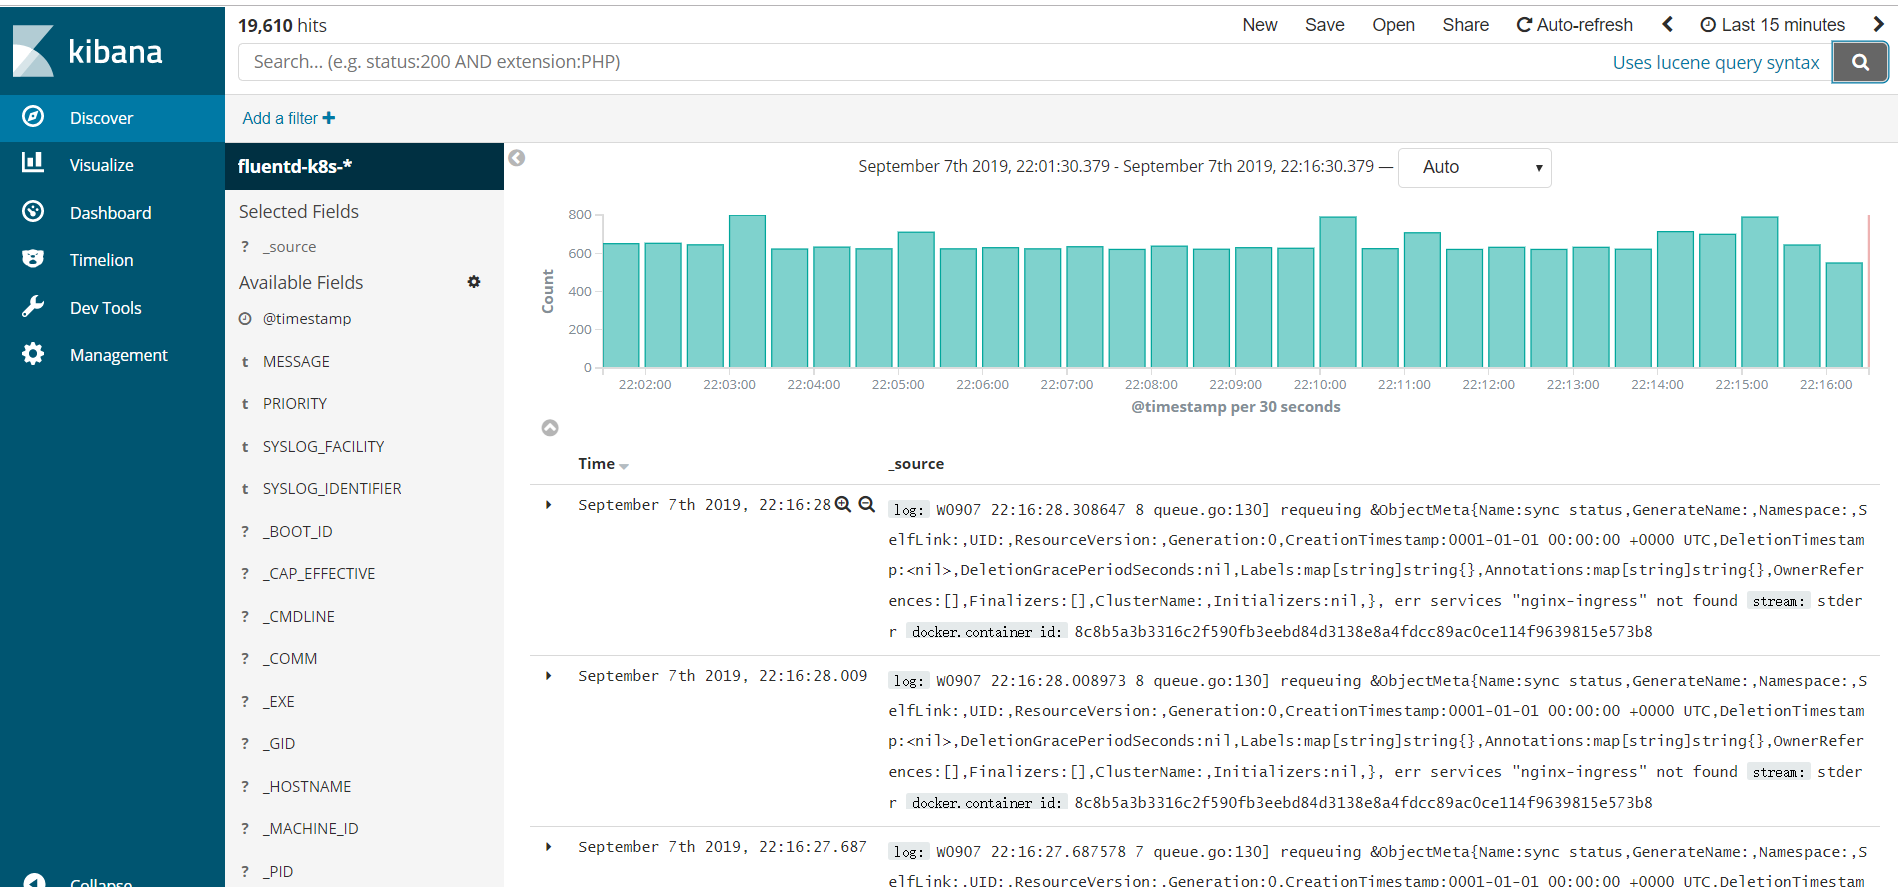
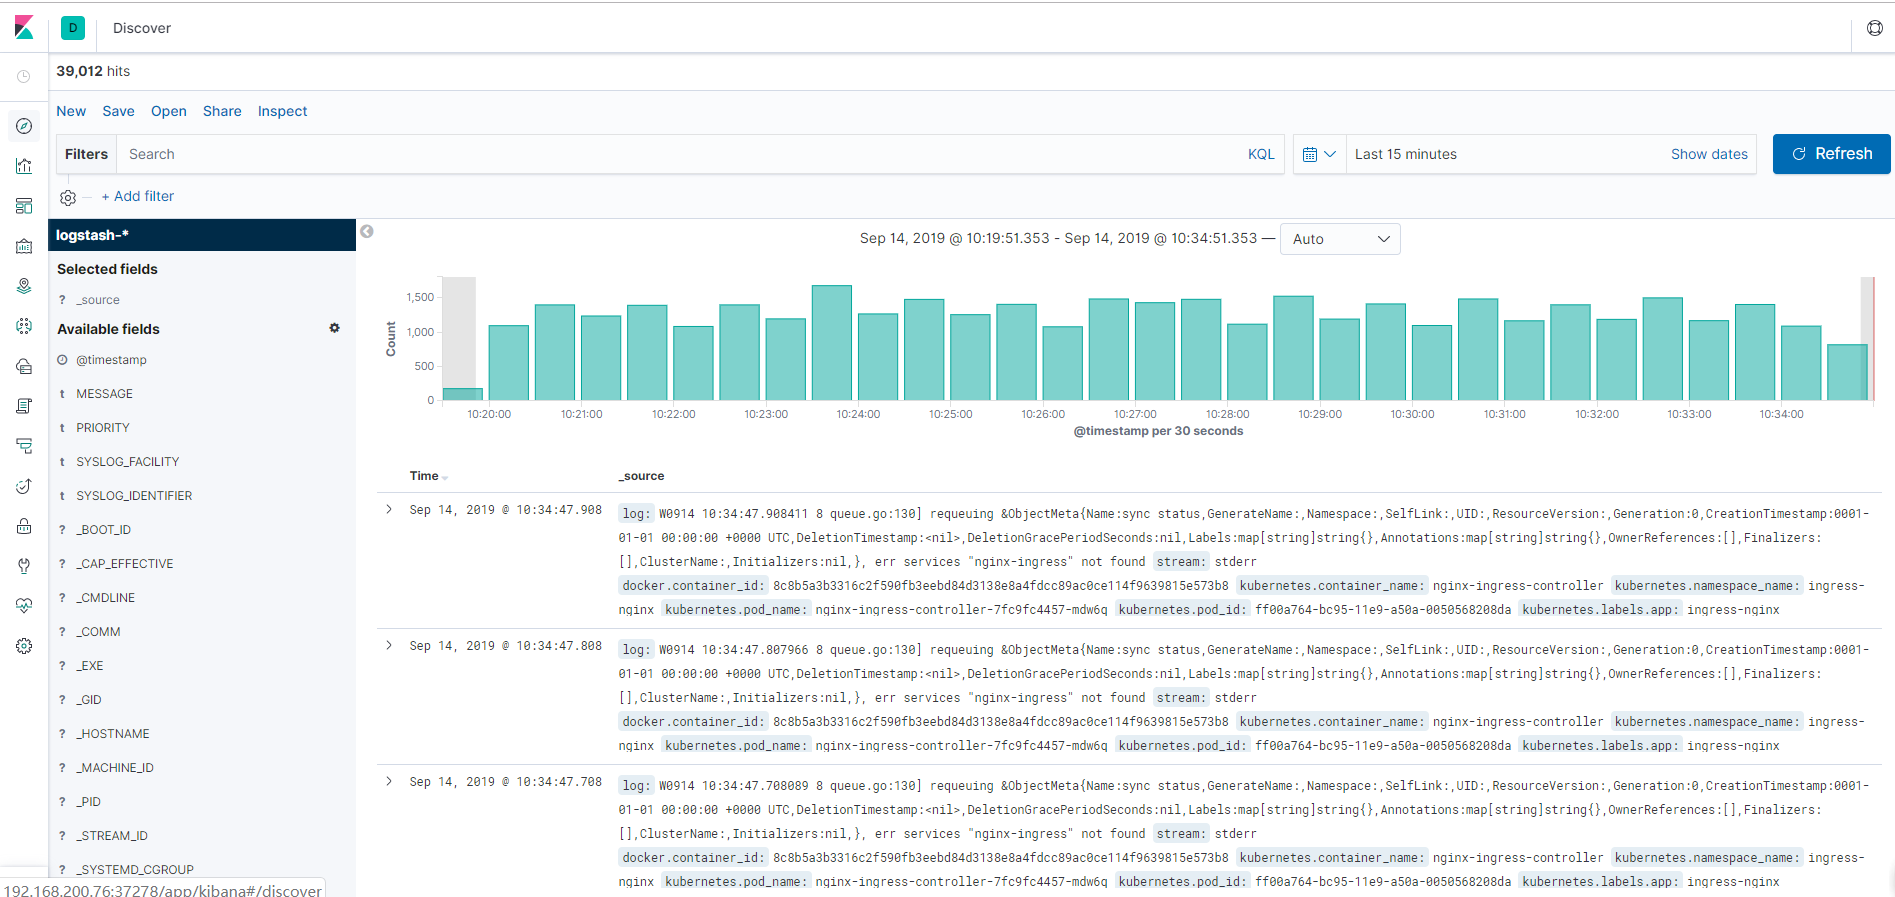
update 持久化存储EFK日志

diff --git a/docs/EFK.md b/docs/EFK.md
@@ -1,45 +1,113 @@
-# EFK插件部署----后端还未做存储持久化,后续跟进研究
+# EFK插件部署----后端使用NFS做存储持久化
 
-## 1.创建logging命名空间
+## 1.搭建NFS共享存储服务器
 ```
-[root@linux-node1 ~]# kubectl create ns logging
+[root@nfs ~]# mkdir -p /data/k8s
+[root@nfs ~]# yum install nfs-utils -y
+[root@nfs ~]# vim /etc/exports
+/data/k8s/ 192.168.200.0/24(rw,no_root_squash)
+[root@nfs ~]# systemctl restart rpcbind && systemctl enable rpcbind
+[root@nfs ~]# systemctl start nfs-server && systemctl enable nfs-server
+[root@nfs ~]# showmount -e
 ```
-## 2.给所有节点打上标签
+
+## 2.搭建nfs-StorageClass后端存储
 
 ```
-[root@linux-node1 ~]# kubectl label nodes beta.kubernetes.io/fluentd-ds-ready=true --all
+[root@linux-node1 ~]# cd /srv/addons/EFK/nfs
+[root@linux-node1 nfs]# kubectl apply -f .
+storageclass.storage.k8s.io/course-nfs-storage created
+serviceaccount/nfs-client-provisioner created
+clusterrole.rbac.authorization.k8s.io/nfs-client-provisioner-runner created
+clusterrolebinding.rbac.authorization.k8s.io/run-nfs-client-provisioner created
+deployment.extensions/nfs-client-provisioner created
+[root@linux-node1 nfs]# kubectl get sc
+NAME                 PROVISIONER      AGE
+course-nfs-storage   fuseim.pri/ifs   99s
+[root@linux-node1 nfs]# kubectl get sa
+NAME                     SECRETS   AGE
+default                  1         94d
+nfs-client-provisioner   1         2m52s
+[root@linux-node1 nfs]# kubectl get pod |grep nfs-client-provisioner
+nfs-client-provisioner-644658bd67-jtzpx               1/1     Running   0          2m1s
 ```
 
 ## 3.部署EFK
 
 ```
-[root@linux-node1 ~]# kubectl apply -f /srv/addons/EFK/
+[root@linux-node1 ~]# kubectl apply -f /srv/addons/EFK/elasticsearch/elasticsearch-statefulset.yaml
+statefulset.apps/es-cluster created
+[root@linux-node1 ~]# kubectl apply -f /srv/addons/EFK/elasticsearch/elasticsearch-svc.yaml
+service/elasticsearch created
+[root@linux-node1 ~]# kubectl get pod -n logging |grep es
+NAME           READY   STATUS    RESTARTS   AGE
+es-cluster-0   1/1     Running   0          53s
+es-cluster-1   1/1     Running   0          41s
+es-cluster-2   1/1     Running   0          29s
 
+[root@linux-node1 ~]# kubectl get pv,pvc -n logging
+NAME                                                        CAPACITY   ACCESS MODES   RECLAIM POLICY   STATUS   CLAIM                          STORAGECLASS         REASON   AGE
+persistentvolume/pvc-a2480a6b-d696-11e9-869b-00505682addb   10Gi       RWO            Delete           Bound    logging/data-es-cluster-0      course-nfs-storage            5m55s
+persistentvolume/pvc-a248e6ae-d696-11e9-869b-00505682addb   10Gi       RWO            Delete           Bound    logging/plugins-es-cluster-0   course-nfs-storage            5m56s
+persistentvolume/pvc-a98f34ea-d696-11e9-869b-00505682addb   10Gi       RWO            Delete           Bound    logging/data-es-cluster-1      course-nfs-storage            5m43s
+persistentvolume/pvc-a9900e36-d696-11e9-869b-00505682addb   10Gi       RWO            Delete           Bound    logging/plugins-es-cluster-1   course-nfs-storage            5m43s
+persistentvolume/pvc-b0b3bd23-d696-11e9-869b-00505682addb   10Gi       RWO            Delete           Bound    logging/data-es-cluster-2      course-nfs-storage            5m32s
+persistentvolume/pvc-b0b4be54-d696-11e9-869b-00505682addb   10Gi       RWO            Delete           Bound    logging/plugins-es-cluster-2   course-nfs-storage            5m31s
+
+NAME                                         STATUS   VOLUME                                     CAPACITY   ACCESS MODES   STORAGECLASS         AGE
+persistentvolumeclaim/data-es-cluster-0      Bound    pvc-a2480a6b-d696-11e9-869b-00505682addb   10Gi       RWO            course-nfs-storage   5m56s
+persistentvolumeclaim/data-es-cluster-1      Bound    pvc-a98f34ea-d696-11e9-869b-00505682addb   10Gi       RWO            course-nfs-storage   5m44s
+persistentvolumeclaim/data-es-cluster-2      Bound    pvc-b0b3bd23-d696-11e9-869b-00505682addb   10Gi       RWO            course-nfs-storage   5m32s
+persistentvolumeclaim/plugins-es-cluster-0   Bound    pvc-a248e6ae-d696-11e9-869b-00505682addb   10Gi       RWO            course-nfs-storage   5m56s
+persistentvolumeclaim/plugins-es-cluster-1   Bound    pvc-a9900e36-d696-11e9-869b-00505682addb   10Gi       RWO            course-nfs-storage   5m44s
+persistentvolumeclaim/plugins-es-cluster-2   Bound    pvc-b0b4be54-d696-11e9-869b-00505682addb   10Gi       RWO            course-nfs-storage   5m32s
+
+
+[root@linux-node1 ~]# kubectl apply -f /srv/addons/EFK/kibana/kibana.yaml
+service/kibana created
+deployment.apps/kibana created
+
+[root@linux-node1 ~]# kubectl get pod -n logging |grep kibana
+kibana-779fb4cb79-pfl4n   1/1     Running   0          49s
+
+[root@linux-node1 ~]# kubectl apply -f /srv/addons/EFK/fluentd/fluentd-daemonset.yaml
+serviceaccount/fluentd-es created
+clusterrole.rbac.authorization.k8s.io/fluentd-es created
+clusterrolebinding.rbac.authorization.k8s.io/fluentd-es created
+daemonset.apps/fluentd-es created
+
+[root@linux-node1 ~]# kubectl apply -f /srv/addons/EFK/fluentd/fluentd-configmap.yaml
+configmap/fluentd-config created
+
+[root@linux-node1 ~]# kubectl get pod -n logging |grep fluentd
+fluentd-es-45thz          1/1     Running   0          67s
+fluentd-es-4qcb7          1/1     Running   0          67s
+fluentd-es-7852g          1/1     Running   0          67s
+fluentd-es-cmsgf          1/1     Running   0          67s
 ```
 
 ## 4.查看EFK的pod运行情况
 ```
-[root@linux-node11 ~]# kubectl get pod -n logging
-NAME                              READY   STATUS    RESTARTS   AGE
-elasticsearch-logging-0           1/1     Running   0          31m
-elasticsearch-logging-1           1/1     Running   0          29m
-elasticsearch-logging-2           1/1     Running   0          28m
-fluentd-es-v2.2.0-64gsn           1/1     Running   0          12m
-fluentd-es-v2.2.0-8d4db           1/1     Running   0          12m
-fluentd-es-v2.2.0-8nlrb           1/1     Running   0          12m
-fluentd-es-v2.2.0-hddwq           1/1     Running   0          12m
-kibana-logging-58578d696f-95f87   1/1     Running   0          31m
-
+[root@k8s-master01 ~]# kubectl get pod -n logging
+NAME                      READY   STATUS    RESTARTS   AGE
+es-cluster-0              1/1     Running   0          7m5s
+es-cluster-1              1/1     Running   0          6m53s
+es-cluster-2              1/1     Running   0          6m41s
+fluentd-es-45thz          1/1     Running   0          3m8s
+fluentd-es-4qcb7          1/1     Running   0          3m8s
+fluentd-es-7852g          1/1     Running   0          3m8s
+fluentd-es-cmsgf          1/1     Running   0          3m8s
+kibana-779fb4cb79-pfl4n   1/1     Running   0          5m20s
 ```
 ## 5.打开kibana管理界面
 ```
-[root@linux-node1 ~]# kubectl get svc -n logging
-NAME                    TYPE        CLUSTER-IP     EXTERNAL-IP   PORT(S)          AGE
-elasticsearch-logging   ClusterIP   10.93.127.27   <none>        9200/TCP         37m
-kibana-logging          NodePort    10.93.115.48   <none>        5601:39615/TCP   37m
+[root@linux-node1 ~]# kubectl get svc -n logging |grep kibana
+kibana          NodePort    10.93.2.26   <none>        5601:37278/TCP      6m6s
 
-在浏览器输入http://nodeip:39615   索引为fluentd-k8s-*
+在浏览器输入http://nodeip:37278   索引为logstash-*
 ```
 ## 6. 日志收集截图
 
 ![EFK](https://github.com/sky-daiji/salt-k8s-ha-v2/blob/master/picture/kibana.png)
+
+## 7. 根据具体日志收集场景，调整`elasticsearch-statefulset.yaml`此文件里面的上下限的资源参数

diff --git a/README.md b/README.md
@@ -418,7 +418,7 @@ linux-node5:
         <td><a href="docs/ingress-nginx.md">5.Ingress-nginx部署</a></td>
         <td><a href="docs/ingress.md">6.Ingress扩展</a></td>
         <td><a href="docs/metallb.md">7.MetalLB</a></td>
-        <td><a href="docs/EFK.md">8.EFK插件</a></td>
+        <td><a href="docs/EFK.md">8.持久化存储的EFK插件</a></td>
         <td><a href="docs/helm.md">9.Helm部署</a></td>
     </tr>
 </table>
